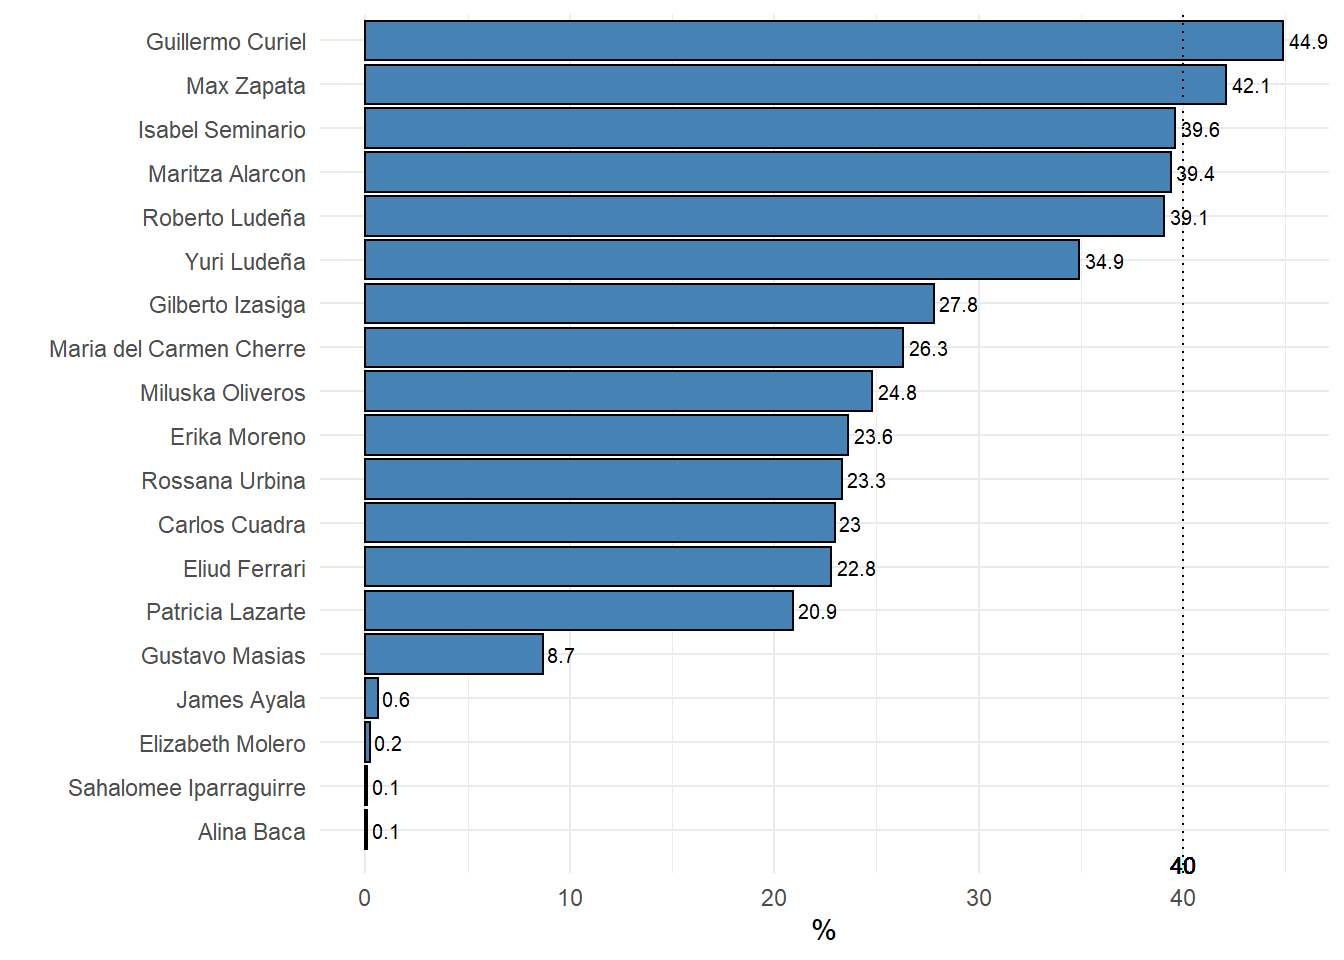
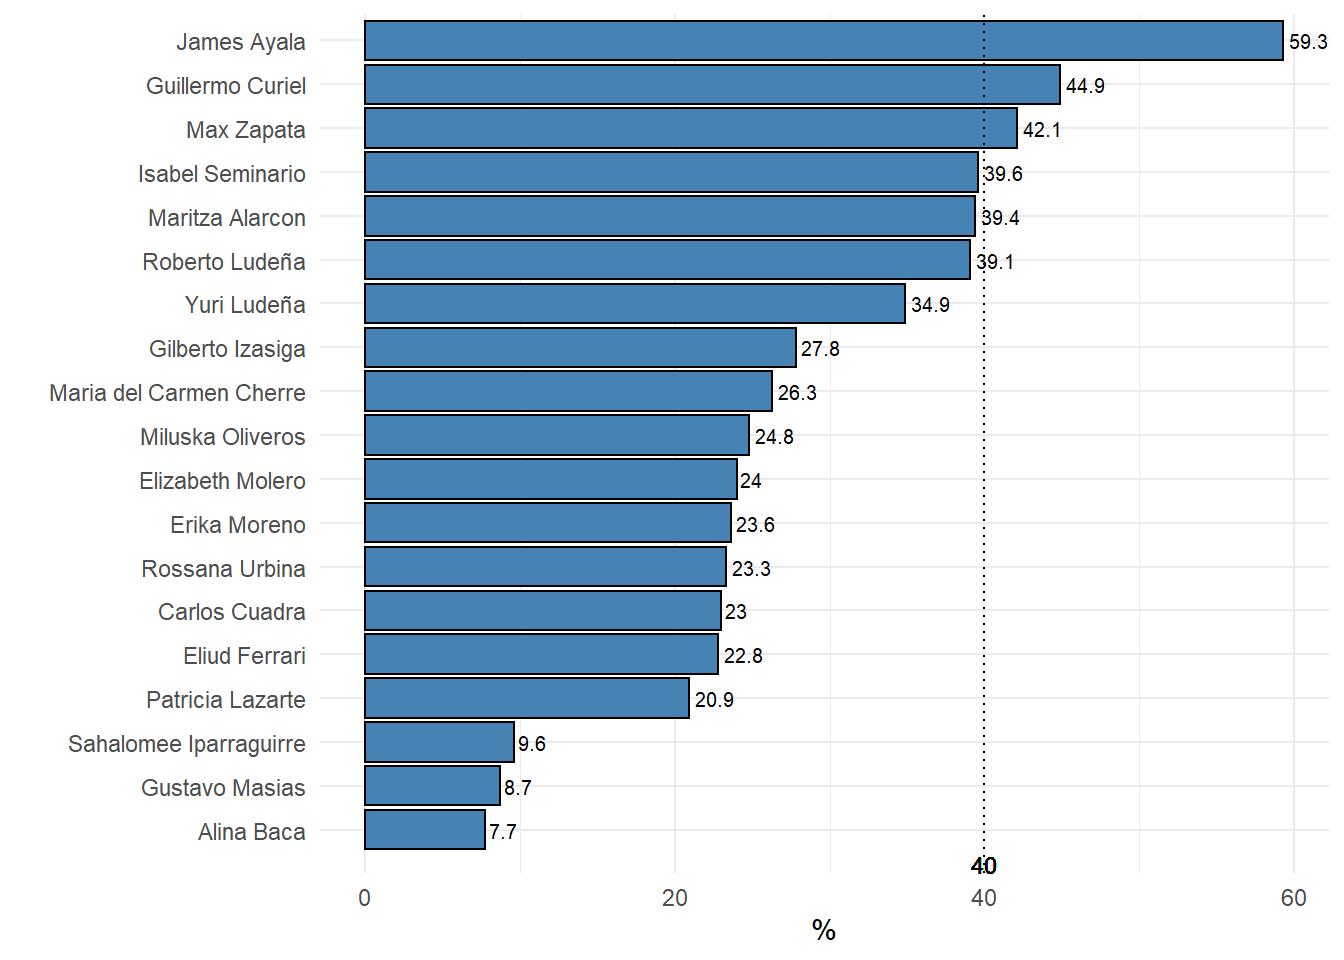
UPDATE
WEB

diff --git a/docs/Journal.html b/docs/Journal.html
@@ -863,22 +863,22 @@ NORTE
 James Ayala
 </td>
 <td style="text-align:right;font-weight: bold;color: black !important;background-color: red !important;">
-0.6
+59.3
 </td>
 <td style="text-align:right;">
-0.8
+82.4
 </td>
 <td style="text-align:right;">
-0.0
+2.8
 </td>
 <td style="text-align:right;">
-0.0
+3.0
 </td>
 <td style="text-align:right;">
-0.5
+53.5
 </td>
 <td style="text-align:right;">
-0.8
+82.5
 </td>
 </tr>
 <tr>
@@ -889,22 +889,22 @@ CALLAO
 Alina Baca
 </td>
 <td style="text-align:right;font-weight: bold;color: black !important;background-color: red !important;">
-0.1
+7.7
 </td>
 <td style="text-align:right;">
-0.0
+4.6
 </td>
 <td style="text-align:right;">
-0.0
+3.5
 </td>
 <td style="text-align:right;">
-0.3
+32.8
 </td>
 <td style="text-align:right;">
-0.0
+-0.6
 </td>
 <td style="text-align:right;">
-0.1
+10.2
 </td>
 </tr>
 <tr>
@@ -915,22 +915,22 @@ SUR
 Sahalomee Iparraguirre
 </td>
 <td style="text-align:right;font-weight: bold;color: black !important;background-color: red !important;">
-0.1
+9.6
 </td>
 <td style="text-align:right;">
-0.1
+14.1
 </td>
 <td style="text-align:right;">
-0.0
+2.8
 </td>
 <td style="text-align:right;">
-0.1
+6.8
 </td>
 <td style="text-align:right;">
-0.1
+10.0
 </td>
 <td style="text-align:right;">
-0.1
+8.6
 </td>
 </tr>
 <tr>
@@ -941,22 +941,22 @@ ESTE
 Elizabeth Molero
 </td>
 <td style="text-align:right;font-weight: bold;color: black !important;background-color: red !important;">
-0.2
+24.0
 </td>
 <td style="text-align:right;">
-0.2
+22.1
 </td>
 <td style="text-align:right;">
-0.0
+2.1
 </td>
 <td style="text-align:right;">
-0.3
+30.2
 </td>
 <td style="text-align:right;">
-0.3
+30.6
 </td>
 <td style="text-align:right;">
-0.3
+25.3
 </td>
 </tr>
 </tbody>
